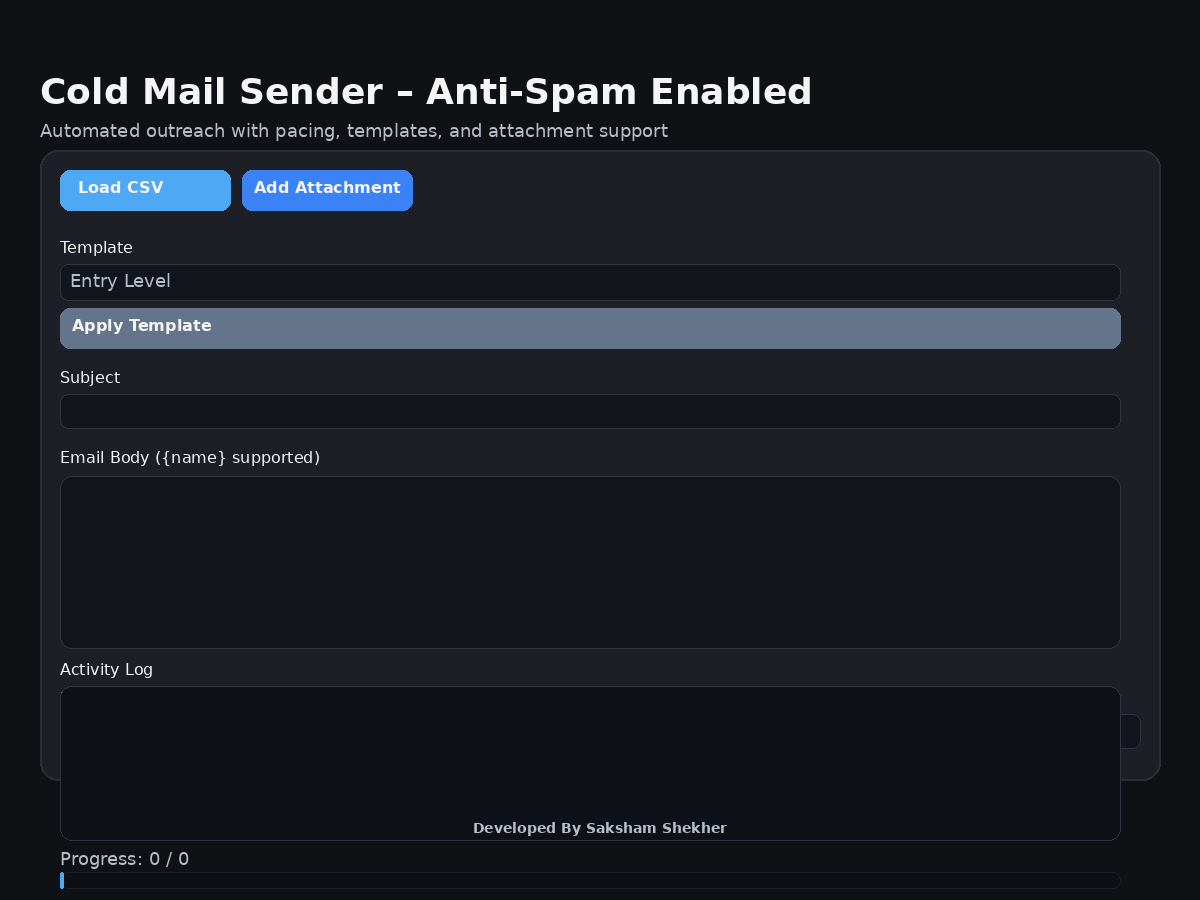
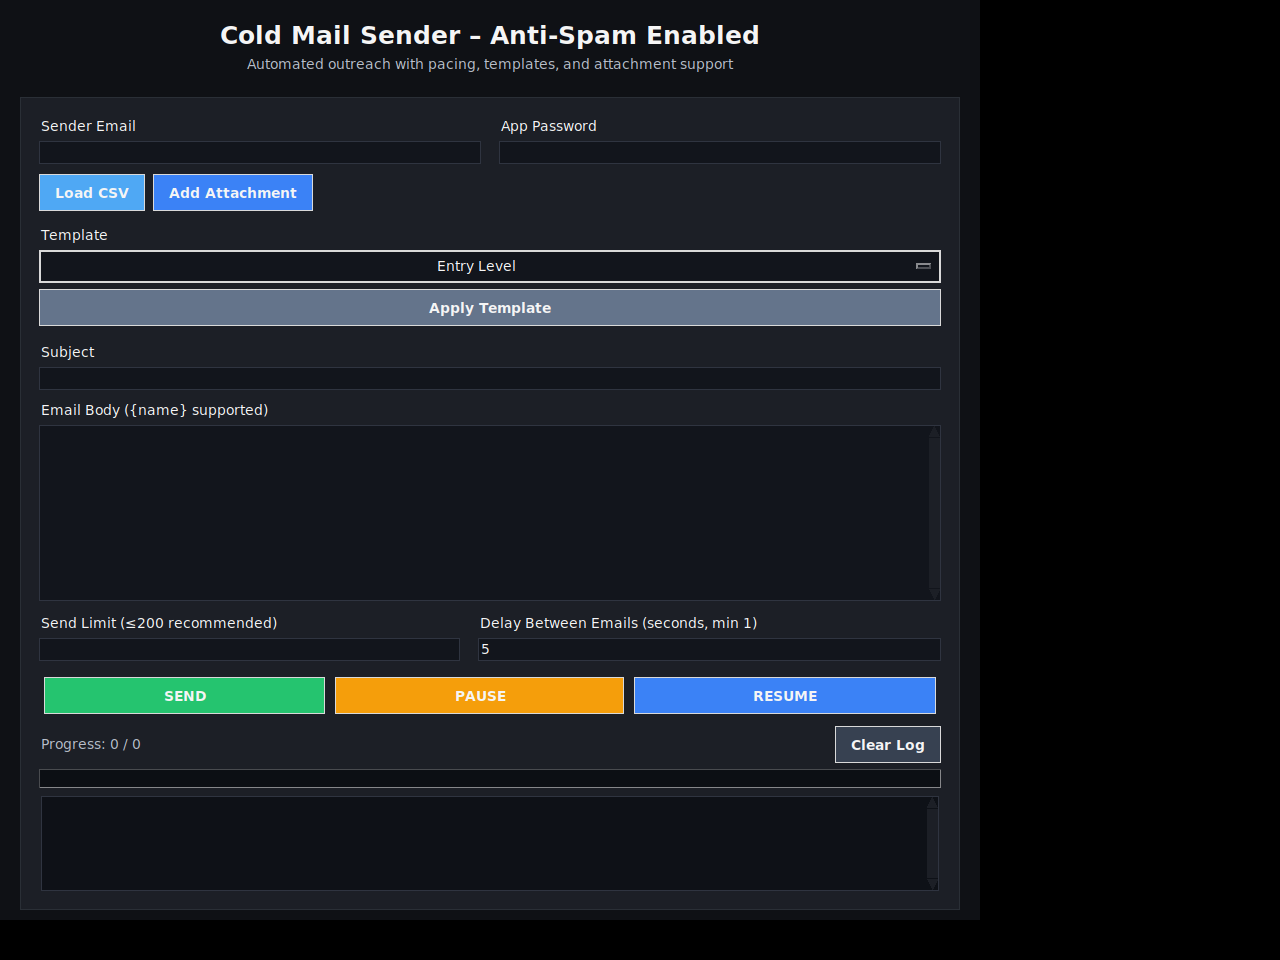
docs: verify app, rewrite README, add requirements.txt, commit UI screenshot (#4)

Changed region(s): [[0.0308, 0.0311, 0.9867, 0.8711], [0.4008, 0.9022, 0.6167, 0.9333], [0.0308, 0.9022, 0.1542, 0.9644]]

diff --git a/cold_mailer_pro.py b/cold_mailer_pro.py
@@ -10,6 +10,7 @@ from email.mime.multipart import MIMEMultipart
 from email.mime.base import MIMEBase
 from email import encoders
 from email.utils import parseaddr
+from typing import Optional
 
 # ================= SMTP CONFIG =================
 SMTP_SERVER = "smtp.gmail.com"
@@ -131,7 +132,7 @@ class ColdMailerApp:
     def __init__(self, root: tk.Tk) -> None:
         self.root = root
         self.email_list: list = []
-        self.attachment_path: str | None = None
+        self.attachment_path: Optional[str] = None
 
         # threading.Event lets pause/resume work without busy-waiting
         self._pause_event = threading.Event()

diff --git a/README.md b/README.md
@@ -1,162 +1,172 @@
-# 📧 Cold Mailer (Python + Tkinter)
+# 📧 Cold Mailer Pro
 
-A **desktop-based bulk email sender** built using **Python and Tkinter**.  
-It allows users to load HR contact data from a CSV file and send personalized cold emails safely with **anti-spam features**, **pause/resume**, **progress tracking**, and **attachment support**.
+A **desktop bulk email sender** built with **Python and Tkinter** — no external dependencies required.  
+Load contacts from a CSV file, pick a professional template, and send personalized cold emails with built-in anti-spam pacing, pause/resume controls, attachment support, and a real-time log.
+
+![Cold Mailer Pro UI](cold_mailer_ui.png)
+
+---
 
 ## 🚀 Features
 
-### ✅ Core Features
-- Load HR **name & email** from CSV
-- Custom **email subject & body**
-- `{name}` placeholder personalization
-- Pre-configured cold email templates
-- Attachment support (PDF, DOCX, etc.)
+### ✉ Email Composition
+- Sender credentials (email + App Password) entered in-app — nothing is hard-coded
+- Custom **Subject** line
+- **Email Body** with `{name}` placeholder for per-recipient personalization
+- 5 ready-to-use **templates** selectable from a dropdown:
+  - Entry Level
+  - General Cold Mail
+  - Follow Up
+  - Internship
+  - Freelance
+- **Apply Template** button populates the body in one click
+- Optional **file attachment** (PDF, DOCX, or any file type)
+
+### 📋 Contact Management
+- Load contacts from any **CSV file** with `name` and `email` columns
+- Automatic validation — malformed or incomplete rows are silently skipped
+- Displays the count of valid contacts loaded
 
 ### 🛡 Anti-Spam & Safety
-- Rate limiting (delay between emails)
-- Send limit (e.g. 100 / 200 / all)
-- Gmail-safe bulk sending
-- Graceful error handling (no crash)
+- **Configurable delay** between emails (minimum 1 second; default 5 s)
+- **Send limit** caps total recipients per session (≤ 200/day recommended for Gmail)
+- Per-recipient error isolation — a failed send logs the error and continues
+- SMTP authentication error is caught and reported clearly
+- 30-second SMTP connection timeout prevents indefinite hangs
 
-### ⏯ Controls
-- Start sending
-- Pause sending
-- Resume from same position
-- No duplicate emails
+### ⏯ Send Controls
+- **SEND** — starts a background thread; UI stays responsive
+- **PAUSE** — suspends sending between emails without dropping the connection
+- **RESUME** — continues from exactly where it was paused
+- **Clear Log** — wipes the activity log without interrupting sending
 
-### 📊 UI Enhancements
-- Dark mode UI
-- Real-time logs
-- Progress bar (emails sent / total)
-- Responsive & non-blocking UI (threaded)
+### 📊 Progress & Logging
+- **Progress bar** tracks `sent / total` in real time
+- **Progress label** shows the numeric count
+- **Activity log** (read-only, auto-scrolling) records every success `✔` and failure `✖`
+- Completion dialog and `✅ All emails processed` log entry when done
 
 ---
 
 ## 🖥 Tech Stack
 
-- **Language:** Python 3.8+
-- **GUI:** Tkinter
-- **Email:** SMTP (Gmail supported)
-- **CSV Handling:** csv module
-- **Threading:** threading module
+| Layer        | Technology                          |
+|-------------|--------------------------------------|
+| Language     | Python 3.8+                         |
+| GUI          | Tkinter + ttk                       |
+| Email        | smtplib (SMTP with STARTTLS)        |
+| MIME         | email.mime (text, multipart, base)  |
+| CSV parsing  | csv.DictReader                      |
+| Concurrency  | threading.Thread + threading.Event  |
 
-➡ Uses **only Python standard library**  
-➡ No external dependencies
+> **No third-party packages required** — pure Python standard library.
 
 ---
 
 ## 📂 Project Structure
 
 ```
-
-cold_mailer_pro/
-│
-├── cold_mailer_pro.py
-├── requirements.txt
+Cold-Mailer/
+├── cold_mailer_pro.py   # Single-file application
+├── requirements.txt     # Documents stdlib dependencies & Python version
+├── cold_mailer_ui.png   # UI screenshot
+├── hr_contact.csv       # Sample contact list
 └── README.md
-
-````
+```
 
 ---
 
-## 📄 CSV File Format (Required)
+## 📄 CSV File Format
 
-Your CSV file **must** contain the following headers:
+Your CSV file **must** have `name` and `email` column headers (case-sensitive).  
+Rows with a missing name or invalid email address are skipped automatically.
 
 ```csv
 name,email
-Rahul Sharma,rahul@gmail.com
+Rahul Sharma,rahul@example.com
 Anita Verma,anita@company.com
-````
+```
 
 ---
 
-## 🔐 Email Setup (Gmail)
+## 🔐 Gmail Setup
 
-To use Gmail SMTP:
+Cold Mailer Pro uses **SMTP with STARTTLS** on port 587.  
+For Gmail you must use an **App Password** — your regular password will not work.
 
-1. Enable **2-Step Verification**
-2. Generate **App Password**
-3. Use App Password in code
+1. Enable **2-Step Verification** on your Google Account
+2. Go to **Google Account → Security → App Passwords**
+3. Generate a 16-character App Password
+4. Enter it in the **App Password** field in the app
 
-```python
-SENDER_EMAIL = "your_email@gmail.com"
-SENDER_PASSWORD = "your_app_password"
-```
+> ❌ Never enter your real Gmail password.
 
-❌ Do NOT use your normal Gmail password
+Other SMTP providers (Outlook, custom mail servers) can be used by editing the `SMTP_SERVER` and `SMTP_PORT` constants at the top of `cold_mailer_pro.py`. The current implementation uses **STARTTLS** (port 587), so the provider must support STARTTLS/PLAIN submission. Providers that only offer implicit TLS on port 465 (`SMTP_SSL`) are not compatible without code changes.
 
 ---
 
 ## ▶ How to Run
 
-### 1⃣ Install Python
-
-Make sure Python **3.8 or above** is installed.
+### 1. Install Python 3.8+
 
 ```bash
-python --version
+python3 --version
 ```
 
-### 2⃣ Run the Application
+### 2. Install tkinter (Linux only)
+
+Tkinter ships with Python on Windows and macOS. On Ubuntu/Debian:
 
 ```bash
-python cold_mailer_pro.py
+sudo apt-get install python3-tk
+```
+
+### 3. Launch the app
+
+```bash
+python3 cold_mailer_pro.py
 ```
 
 ---
 
-## 🧪 How It Works
+## 🧪 Workflow
 
-1. Load CSV file
-2. Choose template or write custom email
-3. Set subject, body, delay & send limit
-4. (Optional) Add attachment
-5. Click **SEND**
-6. Pause / Resume anytime
-7. Track progress via progress bar
-
----
-
-## 📊 Anti-Spam Best Practices (Built-in)
-
-| Feature              | Status |
-| -------------------- | ------ |
-| Rate limiting        | ✅      |
-| Daily send limit     | ✅      |
-| Personalization      | ✅      |
-| Error isolation      | ✅      |
-| UI freeze protection | ✅      |
-
-Recommended:
-
-* Delay ≥ 5 seconds
-* ≤ 200 emails/day (Gmail safe)
+1. **Enter** your sender email and Gmail App Password
+2. **Load CSV** — pick a file with `name,email` columns
+3. **Select a template** and click **Apply Template** (or type your own body)
+4. **Fill in** the Subject line
+5. *(Optional)* Click **Add Attachment** to attach a file
+6. **Set** Send Limit and Delay (defaults: all contacts, 5 s delay)
+7. Click **SEND** — watch the log and progress bar
+8. Use **PAUSE / RESUME** anytime during sending
 
 ---
 
-## 🛠 Customization Ideas
+## 📊 Anti-Spam Quick Reference
 
-You can extend this project with:
+| Feature                  | Status  | Default         |
+|--------------------------|---------|-----------------|
+| Delay between emails     | ✅      | 5 seconds       |
+| Configurable send limit  | ✅      | All loaded rows |
+| Per-recipient isolation  | ✅      | Always on       |
+| Non-blocking UI          | ✅      | Always on       |
+| SMTP timeout             | ✅      | 30 seconds      |
+| Pause / Resume           | ✅      | Available       |
 
-* HTML email templates
-* Resume auto-attach per row
-* OAuth2 (password-less Gmail login)
-* Email open tracking
-* Convert to `.exe` using PyInstaller
-* ETA (time remaining)
-* Sent / Failed counters
+**Recommended settings for Gmail:**
+- Delay ≥ 5 seconds
+- ≤ 200 emails per day
 
 ---
 
 ## 📜 License
 
-This project is created for **educational and personal use**.
-Use responsibly and follow email outreach laws and policies.
+For **educational and personal use**.  
+Use responsibly and comply with applicable email outreach laws and platform policies.
 
 ---
 
 ## 👤 Author
 
-Developed by **Saksham Shekher**
-MCA | Python | Web | Cloud | DevOps Enthusiast
+Developed by **Saksham Shekher**  
+MCA · Python · Web · Cloud · DevOps
